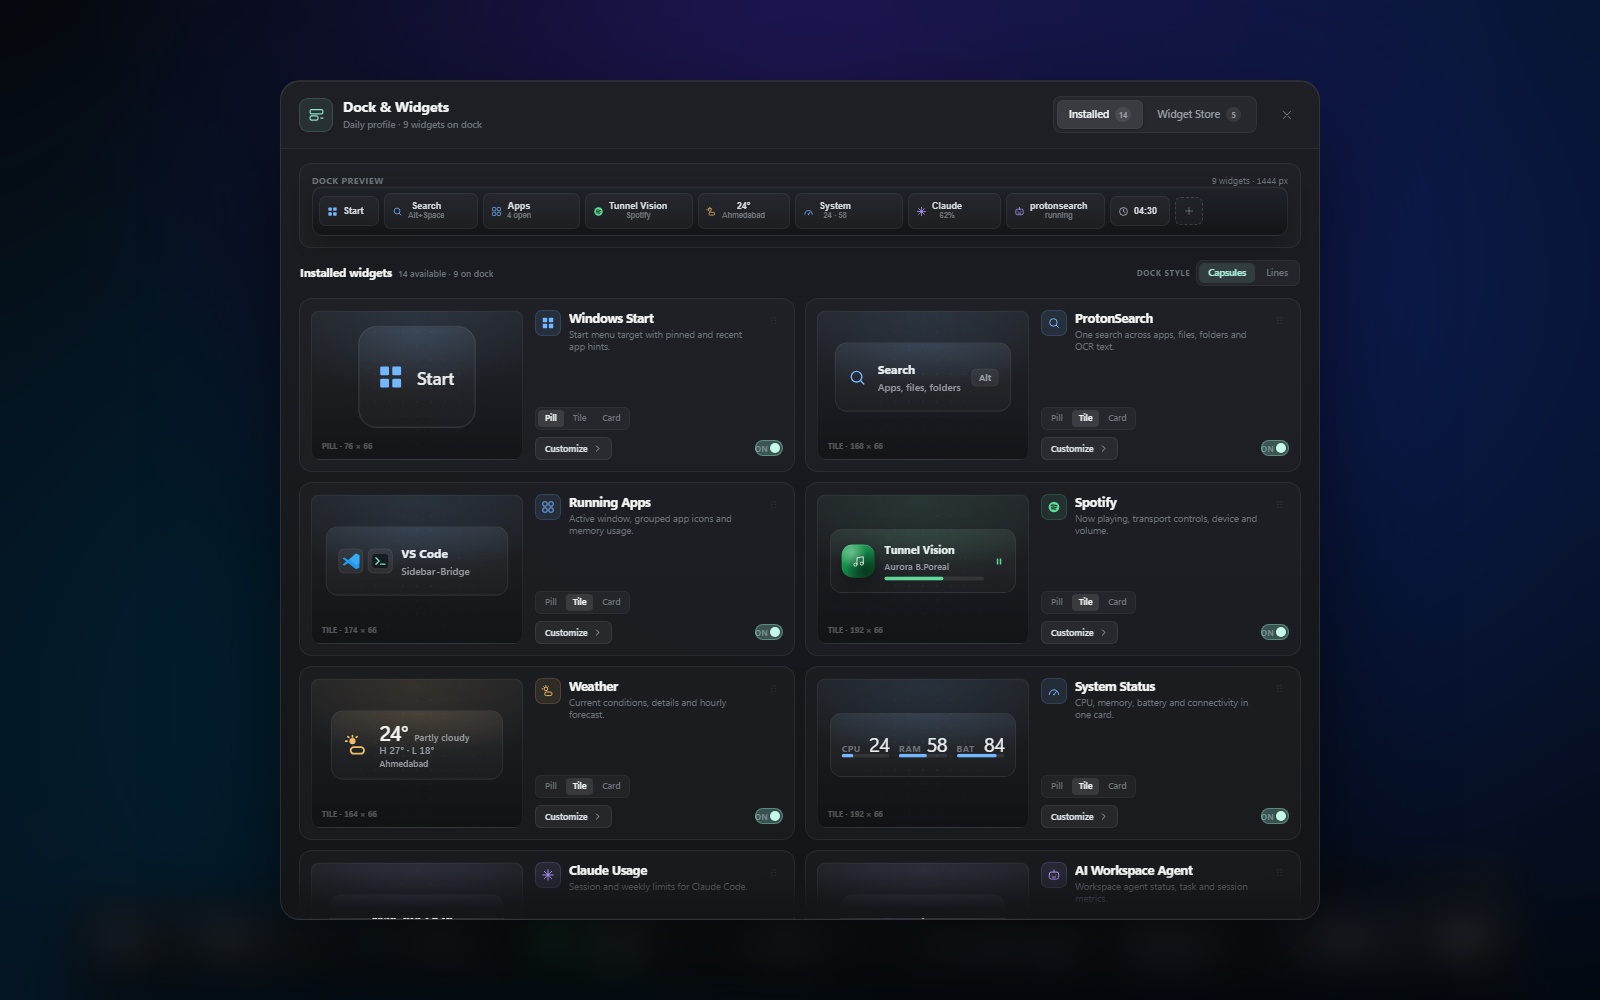
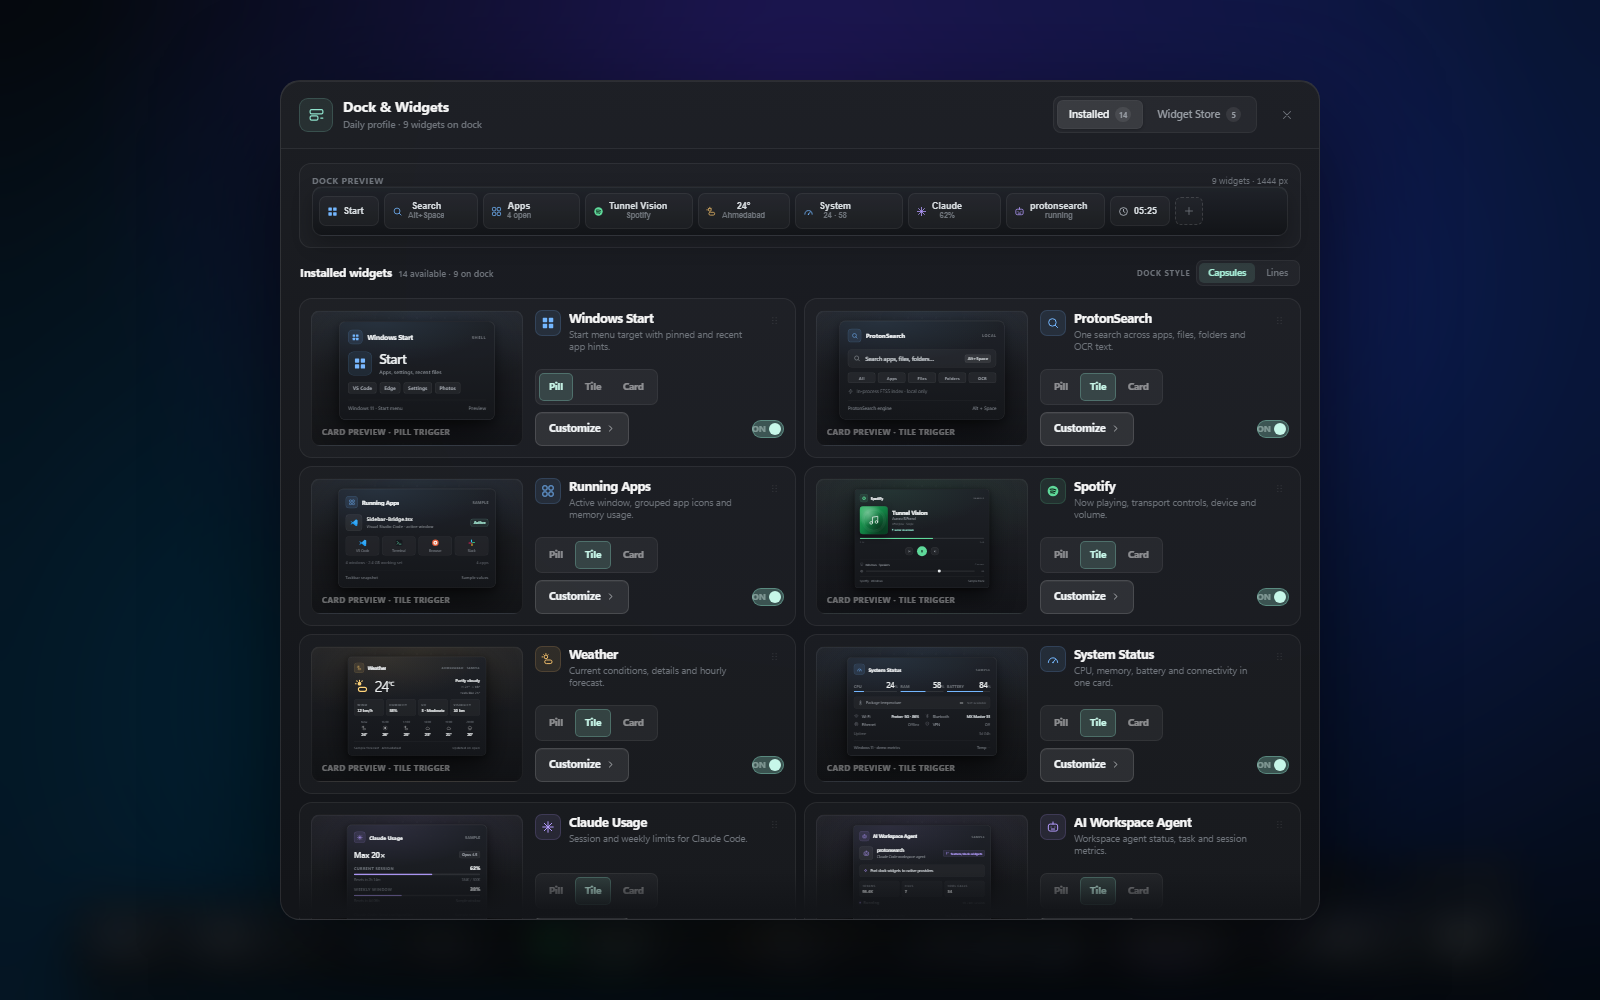
polish(preview): full-card manager previews and copy audit

diff --git a/preview-tahoe-glass.html b/preview-tahoe-glass.html
@@ -1771,6 +1771,7 @@
       pointer-events: none;
       z-index: 4;
     }
+    .customizer-backdrop.is-detail .cust-fade { display: none; }
 
     .cust-dock-preview {
       border-radius: 12px;
@@ -1871,7 +1872,7 @@
     .style-pill-btn:hover { color: var(--w-text); }
     .style-pill-btn.active { background: rgba(143, 226, 204, 0.13); color: #a9efd9; }
 
-    .wm-grid { display: grid; grid-template-columns: 1fr 1fr; gap: 10px; }
+    .wm-grid { display: grid; grid-template-columns: 1fr 1fr; gap: 8px; }
     .wm-card {
       display: grid;
       grid-template-columns: 212px minmax(0, 1fr);
@@ -1880,7 +1881,7 @@
       border-radius: 13px;
       border: 1px solid rgba(255, 255, 255, 0.07);
       background: rgba(255, 255, 255, 0.022);
-      min-height: 172px;
+      min-height: 158px;
       transition: border-color 150ms ease-out, background 150ms ease-out;
       position: relative;
     }
@@ -1890,7 +1891,7 @@
     .wm-card.store-card.disabled { opacity: 0.94; }
     .wm-card.store-card.disabled:hover { opacity: 1; }
     .wm-preview {
-      height: 150px;
+      height: 136px;
       padding: 8px;
       border-radius: 9px;
       border: 1px solid rgba(255, 255, 255, 0.055);
@@ -1902,7 +1903,7 @@
       flex-direction: column;
       align-items: center;
       justify-content: center;
-      gap: 5px;
+      gap: 4px;
       overflow: hidden;
       cursor: pointer;
       position: relative;
@@ -1936,11 +1937,11 @@
       position: relative;
       z-index: 1;
       align-self: flex-start;
-      font-size: 7.5px;
-      font-weight: 600;
-      letter-spacing: 0.045em;
+      font-size: 8px;
+      font-weight: 650;
+      letter-spacing: 0.055em;
       text-transform: uppercase;
-      color: rgba(255, 255, 255, 0.28);
+      color: rgba(255, 255, 255, 0.38);
       font-variant-numeric: tabular-nums;
       padding-left: 2px;
     }
@@ -1966,29 +1967,30 @@
     }
     .wm-drag:hover { color: var(--w-muted); background: rgba(255, 255, 255, 0.05); }
     .wm-bottom { margin-top: auto; display: flex; flex-direction: column; gap: 7px; }
-    .wm-sizes { display: flex; gap: 2px; padding: 2px; border-radius: 6px; background: rgba(255, 255, 255, 0.04); border: 1px solid rgba(255, 255, 255, 0.045); width: max-content; }
+    .wm-sizes { display: flex; gap: 2px; padding: 3px; border-radius: 7px; background: rgba(255, 255, 255, 0.05); border: 1px solid rgba(255, 255, 255, 0.06); width: max-content; }
     .size-opt-btn {
-      appearance: none; border: 0; background: transparent; color: var(--w-dim);
-      font: 600 8.5px/1 var(--font-stack); padding: 4px 7px; border-radius: 4px; cursor: pointer;
-      transition: background 140ms ease-out, color 140ms ease-out;
+      appearance: none; border: 0; background: transparent; color: rgba(255, 255, 255, 0.48);
+      font: 650 9.5px/1 var(--font-stack); min-height: 28px; padding: 0 10px; border-radius: 5px; cursor: pointer;
+      transition: background 140ms ease-out, color 140ms ease-out, box-shadow 140ms ease-out;
     }
-    .size-opt-btn:hover { color: var(--w-text); }
-    .size-opt-btn.active { background: rgba(255, 255, 255, 0.1); color: #eef2f4; }
-    .wm-actions { display: flex; align-items: center; gap: 7px; }
+    .size-opt-btn:hover { color: var(--w-text); background: rgba(255, 255, 255, 0.06); }
+    .size-opt-btn.active { background: rgba(143, 226, 204, 0.15); color: #c9f8ea; box-shadow: inset 0 0 0 1px rgba(143, 226, 204, 0.28); }
+    .wm-actions { display: flex; align-items: center; gap: 8px; }
     .wm-customize {
-      appearance: none; border: 1px solid rgba(255, 255, 255, 0.08);
-      background: rgba(255, 255, 255, 0.055); color: #dbe0e4;
-      font: 600 9px/1 var(--font-stack); padding: 6px 9px; border-radius: 6px; cursor: pointer;
-      display: inline-flex; align-items: center; gap: 5px;
+      appearance: none; border: 1px solid rgba(255, 255, 255, 0.13);
+      background: rgba(255, 255, 255, 0.085); color: #f0f3f5;
+      font: 650 10.5px/1 var(--font-stack); min-height: 34px; padding: 0 13px; border-radius: 7px; cursor: pointer;
+      display: inline-flex; align-items: center; gap: 6px;
+      box-shadow: inset 0 1px 0 rgba(255, 255, 255, 0.045);
       transition: background 140ms ease-out, border-color 140ms ease-out;
     }
-    .wm-customize:hover { background: rgba(255, 255, 255, 0.1); border-color: rgba(255, 255, 255, 0.14); }
-    .wm-enable { margin-left: auto; display: flex; align-items: center; gap: 6px; }
-    .wm-enable-label { font-size: 8px; font-weight: 650; letter-spacing: 0.05em; text-transform: uppercase; color: var(--w-dim); }
+    .wm-customize:hover { background: rgba(255, 255, 255, 0.14); border-color: rgba(255, 255, 255, 0.2); }
+    .wm-enable { margin-left: auto; display: flex; align-items: center; gap: 7px; }
+    .wm-enable-label { font-size: 8.5px; font-weight: 650; letter-spacing: 0.05em; text-transform: uppercase; color: rgba(255, 255, 255, 0.42); }
     .wm-install {
-      appearance: none; border: 0; height: 26px; padding: 0 11px; border-radius: 6px;
+      appearance: none; border: 0; height: 32px; padding: 0 13px; border-radius: 7px;
       background: rgba(143, 226, 204, 0.13); border: 1px solid rgba(143, 226, 204, 0.25);
-      color: #a9efd9; font: 650 9px/1 var(--font-stack); cursor: pointer;
+      color: #a9efd9; font: 650 10px/1 var(--font-stack); cursor: pointer;
       display: inline-flex; align-items: center; gap: 5px; margin-left: auto;
       transition: background 140ms ease-out;
     }
@@ -1997,7 +1999,7 @@
     .wm-install.installed:hover { background: rgba(255, 255, 255, 0.08); }
     .wm-empty-store { font-size: 10px; color: var(--w-dim); padding: 12px; text-align: center; }
     .store-note {
-      min-height: 172px;
+      min-height: 158px;
       border-radius: 13px;
       border: 1px dashed rgba(255, 255, 255, 0.09);
       background: rgba(255, 255, 255, 0.012);
@@ -2019,7 +2021,8 @@
     .store-note span { font-size: 8.5px; color: rgba(255, 255, 255, 0.3); }
 
     /* Toggle */
-    .w-switch { position: relative; display: inline-flex; width: 28px; height: 16px; flex: 0 0 auto; cursor: pointer; }
+    .w-switch { position: relative; display: inline-flex; width: 32px; height: 18px; flex: 0 0 auto; cursor: pointer; }
+    .w-switch::before { content: ""; position: absolute; inset: -7px -6px; border-radius: 8px; }
     .w-switch input { position: absolute; opacity: 0; width: 0; height: 0; }
     .w-switch .ws-track {
       position: absolute; inset: 0; border-radius: 999px;
@@ -2029,12 +2032,29 @@
     }
     .w-switch .ws-track::after {
       content: ""; position: absolute; top: 2px; left: 2px;
-      width: 10px; height: 10px; border-radius: 50%;
+      width: 12px; height: 12px; border-radius: 50%;
       background: #9aa0a7;
       transition: transform 150ms ease-out, background 150ms ease-out;
     }
     .w-switch input:checked + .ws-track { background: rgba(143, 226, 204, 0.28); border-color: rgba(143, 226, 204, 0.38); }
-    .w-switch input:checked + .ws-track::after { transform: translateX(12px); background: #c7f7e9; }
+    .w-switch input:checked + .ws-track::after { transform: translateX(14px); background: #c7f7e9; }
+    .w-switch input:focus-visible + .ws-track { box-shadow: 0 0 0 2px rgba(143, 226, 204, 0.8); }
+
+    /* Keyboard focus */
+    .customizer-window button:focus-visible,
+    .customizer-window select:focus-visible,
+    .customizer-window input:not([type="checkbox"]):focus-visible,
+    .customizer-window .wm-preview:focus-visible {
+      outline: 2px solid rgba(143, 226, 204, 0.8);
+      outline-offset: 2px;
+    }
+    .customizer-window .wm-preview:focus-visible { outline-offset: -2px; }
+
+    @media (pointer: coarse) {
+      .customizer-window .size-opt-btn,
+      .customizer-window .wm-customize,
+      .customizer-window .wm-install { min-height: 44px; }
+    }
 
     /* Detail view */
     .cust-detail { display: flex; flex-direction: column; gap: 12px; }
@@ -2092,7 +2112,7 @@
       display: flex;
       flex-direction: column;
       gap: 10px;
-      max-height: 408px;
+      max-height: 448px;
       overflow-y: auto;
       scrollbar-width: none;
       -ms-overflow-style: none;
@@ -2443,7 +2463,7 @@
 
     const SAMPLE = {
       spotify: {
-        track: 'Tunnel Vision', artist: 'Aurora B.Poreal', album: 'Afterglow — Single',
+        track: 'Tunnel Vision', artist: 'Aurora B.Poreal', album: 'Afterglow · Single',
         elapsed: '2:14', duration: '3:48', pct: 59, device: 'Windows · Speakers',
         volume: 62
       },
@@ -3096,7 +3116,7 @@
           const def = WIDGET_BY_ID[state.id];
           const variant = state.size === 'compact' ? 'pill' : state.size === 'medium' ? 'tile' : 'rail';
           const width = RAIL_WIDTHS[state.id][state.size];
-          return '<div class="dock-widget tint-' + def.tint + '" data-widget="' + state.id + '" data-size="' + state.size + '" style="width:' + width + 'px" draggable="true" role="button" tabindex="0" aria-label="' + wEsc(def.name) + '" title="' + wEsc(def.name) + ' — hover for card, click for details" onclick="handleDockWidgetClick(event,\'' + state.id + '\')" onkeydown="handleDockWidgetKey(event,\'' + state.id + '\')">' + renderWidgetContent(def, state, variant) + '</div>';
+          return '<div class="dock-widget tint-' + def.tint + '" data-widget="' + state.id + '" data-size="' + state.size + '" style="width:' + width + 'px" draggable="true" role="button" tabindex="0" aria-label="' + wEsc(def.name) + '" title="' + wEsc(def.name) + ' · hover for card, click for details" onclick="handleDockWidgetClick(event,\'' + state.id + '\')" onkeydown="handleDockWidgetKey(event,\'' + state.id + '\')">' + renderWidgetContent(def, state, variant) + '</div>';
         }).join('');
       }
       updateManagerMeta();
@@ -3142,7 +3162,7 @@
         const [label, value] = miniPreview(state);
         const width = Math.max(state.size === 'compact' ? 60 : 54, Math.round(RAIL_WIDTHS[state.id][state.size] * 0.56)) + (state.id === 'agent' ? 12 : 0);
         const liveClock = state.id === 'clock' ? ' data-clock-inline' : '';
-        return '<button class="cdp-slot tint-' + def.tint + '" data-size="' + state.size + '" style="width:' + width + 'px" onclick="openWidgetDetail(\'' + state.id + '\')" title="' + wEsc(def.name) + ' — ' + SIZE_LABELS[state.size] + '">' +
+        return '<button class="cdp-slot tint-' + def.tint + '" data-size="' + state.size + '" style="width:' + width + 'px" onclick="openWidgetDetail(\'' + state.id + '\')" title="' + wEsc(def.name) + ' · ' + SIZE_LABELS[state.size] + '">' +
           '<span class="w-ico">' + wIcon(def.icon, 11) + '</span>' +
           '<span class="cdp-text">' +
             '<b' + liveClock + '>' + wEsc(label) + '</b>' +
@@ -3434,6 +3454,7 @@
       installed.style.display = !isDetail && activeTab === 'installed' ? 'flex' : 'none';
       store.style.display = !isDetail && activeTab === 'store' ? 'flex' : 'none';
       detail.style.display = isDetail ? 'flex' : 'none';
+      customizerModal.classList.toggle('is-detail', isDetail);
       if (dockPreview) dockPreview.style.display = 'block';
 
       updateManagerMeta();
@@ -3447,18 +3468,11 @@
 
     function previewMarkup(state) {
       const def = WIDGET_BY_ID[state.id];
-      if (state.size === 'expanded') {
-        return '<div class="wm-preview-scaler" data-fit-card>' + renderWidgetContent(def, state, 'card') + '</div>';
-      }
-      const variant = state.size === 'compact' ? 'pill' : 'tile';
-      const width = RAIL_WIDTHS[state.id][state.size];
-      return '<div class="dock-widget tint-' + def.tint + '" style="width:' + width + 'px;pointer-events:none" data-preview-size="' + state.size + '">' + renderWidgetContent(def, state, variant) + '</div>';
+      return '<div class="wm-preview-scaler" data-fit-card>' + renderWidgetContent(def, state, 'card') + '</div>';
     }
 
     function previewCaption(state) {
-      const def = WIDGET_BY_ID[state.id];
-      if (state.size === 'expanded') return 'Card · ' + def.cardWidth + ' px wide';
-      return SIZE_LABELS[state.size] + ' · ' + RAIL_WIDTHS[state.id][state.size] + ' × 66';
+      return 'Card preview · ' + SIZE_LABELS[state.size] + ' trigger';
     }
 
     function previewFrame(state) {
@@ -3471,15 +3485,7 @@
         const stage = scaler.closest('.wm-preview-stage');
         if (!card || !stage) return;
         const scale = Math.min((stage.clientWidth - 4) / card.offsetWidth, (stage.clientHeight - 4) / card.offsetHeight, 1);
-        scaler.style.transform = 'scale(' + Math.max(0.3, scale) + ')';
-      });
-      document.querySelectorAll('.wm-preview-stage [data-preview-size]').forEach(slot => {
-        const stage = slot.closest('.wm-preview-stage');
-        if (!stage) return;
-        const max = slot.getAttribute('data-preview-size') === 'compact' ? 1.55 : 1.05;
-        const scale = Math.min(max, (stage.clientWidth - 8) / slot.offsetWidth, (stage.clientHeight - 4) / slot.offsetHeight);
-        slot.style.transform = 'scale(' + Math.max(0.7, scale) + ')';
-        slot.style.transformOrigin = 'center center';
+        scaler.style.transform = 'scale(' + Math.max(0.24, scale) + ')';
       });
     }
 
@@ -3493,7 +3499,7 @@
       grid.innerHTML = widgetState.map(state => {
         const def = WIDGET_BY_ID[state.id];
         return '<div class="wm-card ' + (state.enabled ? '' : 'disabled') + '" data-manage-card="' + state.id + '" style="--tint-rgb:' + def.tintRgb + '">' +
-          '<div class="wm-preview" onclick="openWidgetDetail(\'' + state.id + '\')" title="Open ' + wEsc(def.name) + ' settings">' + previewFrame(state) + '</div>' +
+          '<div class="wm-preview" role="button" tabindex="0" onclick="openWidgetDetail(\'' + state.id + '\')" onkeydown="if(event.key===\'Enter\'||event.key===\' \'){event.preventDefault();openWidgetDetail(\'' + state.id + '\')}" title="Open ' + wEsc(def.name) + ' settings">' + previewFrame(state) + '</div>' +
           '<div class="wm-body">' +
             '<div class="wm-top"><div class="wm-icon">' + wIcon(def.icon, 14) + '</div><div class="wm-name"><b>' + wEsc(def.name) + '</b><p>' + wEsc(def.desc) + '</p></div><div class="wm-drag" draggable="true" data-drag-widget="' + state.id + '" title="Drag to reorder">' + wIcon('drag', 13) + '</div></div>' +
             '<div class="wm-bottom">' +
@@ -3515,7 +3521,7 @@
       grid.innerHTML = optional.map(def => {
         const state = getWidgetState(def.id);
         return '<div class="wm-card store-card ' + (state.enabled ? '' : 'disabled') + '" data-manage-card="' + state.id + '" style="--tint-rgb:' + def.tintRgb + '">' +
-          '<div class="wm-preview" onclick="openWidgetDetail(\'' + state.id + '\')" title="Preview ' + wEsc(def.name) + '">' + previewFrame(state) + '</div>' +
+          '<div class="wm-preview" role="button" tabindex="0" onclick="openWidgetDetail(\'' + state.id + '\')" onkeydown="if(event.key===\'Enter\'||event.key===\' \'){event.preventDefault();openWidgetDetail(\'' + state.id + '\')}" title="Preview ' + wEsc(def.name) + '">' + previewFrame(state) + '</div>' +
           '<div class="wm-body">' +
             '<div class="wm-top"><div class="wm-icon">' + wIcon(def.icon, 14) + '</div><div class="wm-name"><b>' + wEsc(def.name) + '</b><p>' + wEsc(def.desc) + '</p></div><span class="w-tag' + (state.enabled ? ' live' : '') + '">' + (state.enabled ? 'Installed' : 'Not installed') + '</span></div>' +
             '<div class="wm-bottom">' +

diff --git a/docs/qa/STATUS.md b/docs/qa/STATUS.md
@@ -37,6 +37,15 @@ its detail preview; `node --check` and `git diff --check` pass. Evidence:
 `widget-system-card.png`, `widgets-store.png`, `widgets-popover.png`,
 `widgets-dock-1280.png`.
 
+Follow-up polish (2026-11-07): installed and store thumbnails now render the
+complete card layout fit-scaled into each preview stage, with captions naming the
+selected Pill/Tile/Card dock trigger; the trigger control no longer changes the
+thumbnail. Customize and the selected size segment were enlarged, a 2px
+focus-visible ring and 44px coarse-pointer targets were added, and the detail
+fade was removed so all eight System settings remain visible at 1600x1000. The
+visible copy audit found zero em/en dashes and no mojibake or replacement
+characters. Recaptured manager, store, Spotify, and System evidence above.
+
 Open gates: all provider values in the preview are marked SAMPLE; live native
 providers, real account usage, settings persistence across reloads, packaged-app
 rendering, and physical 125%/DPI visual checks remain unverified. The preview
